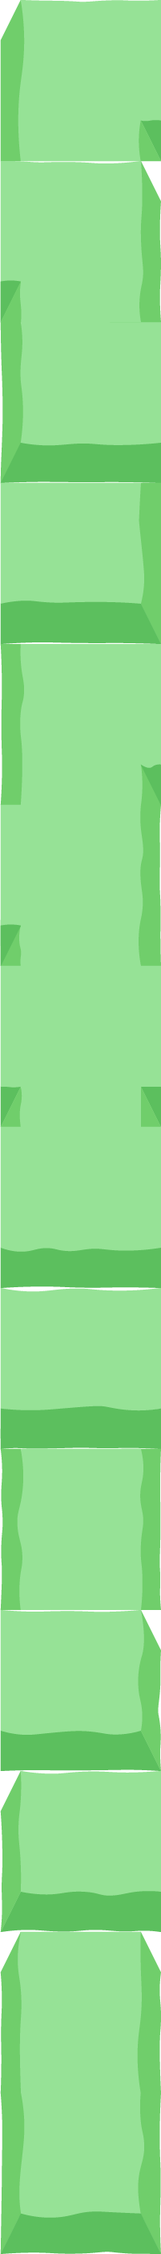
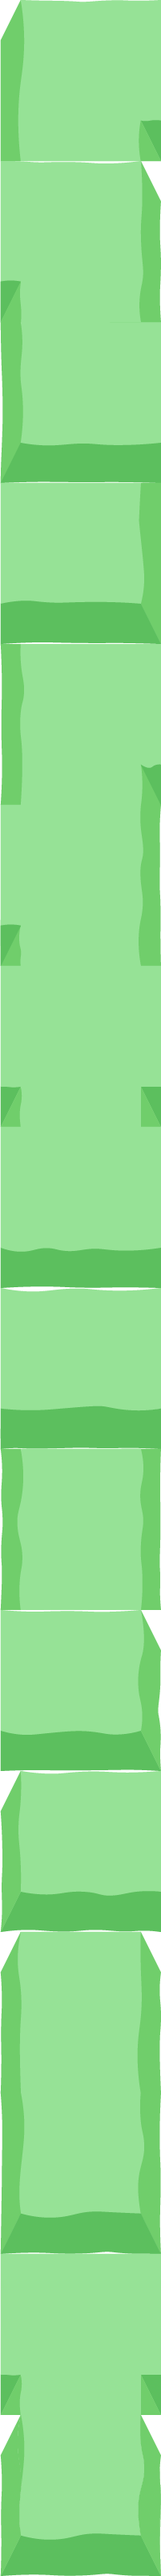
hecke angepasst

diff --git a/src/Level.hpp b/src/Level.hpp
@@ -136,9 +136,7 @@ public:
         return *getNode(position);
     }
 
-    // Input: MapFild-Position;  Output: corresponding Background 
     sf::Sprite getBackground(){
-        //bg.setPosition((float)pos.x * OBJECTUNIT, (float)pos.y * OBJECTUNIT);
         return bg;
     }
 
@@ -161,6 +159,24 @@ void loadFonts() {
     if (!font.loadFromFile("../include/KulimPark-Regular.ttf"))
         printf("ERROR: FONT NOT LOADED!");
         //return EXIT_FAILURE;
+}
+
+void buildOuterBorders(){
+    for (int x=0; x<mapsizex; x++){
+        new Barrier(map, x, 0);
+        new Barrier(map, x, mapsizey-1);
+    }
+    for (int y=1; y<mapsizey-1; y++){
+        new Barrier(map, 0, y);
+        new Barrier(map, mapsizex-1, y);
+    }
+}
+
+void createBackground(){
+    Texsheet* tex = Object::texsheets["bg0"];
+    tex->texture.setRepeated(true);
+    bg.setTexture(tex->texture);
+    bg.setTextureRect({0, 0, mapsizex*OBJECTUNIT, mapsizey*OBJECTUNIT});
 }
 
 
@@ -393,60 +409,12 @@ void dfs(sf::Vector2u size){
     // Idee: Items schon bei DFS verteilen!!
     //  Das ist effizient und pro 1 Minotaurus können danach (bei umgekehrter DFS, sonst halt andersrum) n Bambusse verteilt werden
     // Navi und Brot: An den Anfang mehr, sonst aber gleichverteilt, an Ende weniger.
-};
+}
 
 
 ////////////////////////////////////////////////////////////////////////////////
 
-void buildOuterBorders(){
-    for (int x=0; x<mapsizex; x++){
-        new Barrier(map, x, 0);
-        new Barrier(map, x, mapsizey-1);
-    }
-    for (int y=1; y<mapsizey-1; y++){
-        new Barrier(map, 0, y);
-        new Barrier(map, mapsizex-1, y);
-    }
-}
-
-void createBackground(){
-    Texsheet* tex = Object::texsheets["bg0"];
-    tex->texture.setRepeated(true);
-    bg.setTexture(tex->texture);
-    bg.setTextureRect({0, 0, mapsizex*OBJECTUNIT, mapsizey*OBJECTUNIT});
-    /*
-    sf::Vector2f scale(
-                (float) (OBJECTUNIT * bgsize) / tex->getSize().x,
-                (float) (OBJECTUNIT * bgsize) / tex->getSize().y);
-    bg.scale(scale);
-    bg.setPosition(0.,0.);
-    */
-}
-
-/*
-// bgSize ist in Mapfilds
-void drawBackground(){
-    for (int x=0; x<bgsizex; x++){
-        for (int y=0; y<bgsizey; y++){
-            Texsheet* tex = Object::texsheets["bg0"];
-
-            bg[x*bgsizey + y] = new sf::Sprite(tex->texture);
-            //sf::Sprite* sprite = bg[x*bgsizey + y];
-            sf::Vector2f scale(
-                (float) (OBJECTUNIT * bgsize) / tex->getSize().x,
-                (float) (OBJECTUNIT * bgsize) / tex->getSize().y);
-            bg[x*bgsizey + y]->scale(scale);
-            bg[x*bgsizey + y]->setPosition((float)x*OBJECTUNIT, (float)y*OBJECTUNIT);
-        }
-    }
-
-}
-*/
-
-
 };
-
-
 
 
 #endif //LEVEL_H

diff --git a/src/Object.hpp b/src/Object.hpp
@@ -40,7 +40,7 @@ public:
 
     static void loadTexsheets(std::string theme = "standard"){
         texsheets["bg0"] = new Texsheet("../include/img/boden.png");
-        texsheets["hecke"] = new Texsheet("../include/img/hecke.png", 1, 14);
+        texsheets["hecke"] = new Texsheet("../include/img/hecke.png", 1, 16);
         texsheets["wall"] = new Texsheet("../include/img/wall0.png");
         texsheets["arrow_left"] = new Texsheet("../include/img/arrow.png", 1, 4);
     }

diff --git a/src/O_Facility.hpp b/src/O_Facility.hpp
@@ -56,8 +56,8 @@ public:
         mapping[{R}] = 11;
         mapping[{D}] = 12;
         mapping[{U}] = 13;
-        mapping[{}] = 0; // TODO Hier fehlt noch eine Kachel 
-        mapping[{R, L, U, D}] = 0; // TODO Hier fehlt noch eine Kachel 
+        mapping[{}] = 15;
+        mapping[{R, L, U, D}] = 14;
 
         int spriterow = mapping[bnd];
         dir = sf::Vector2i(spriterow, 0);
